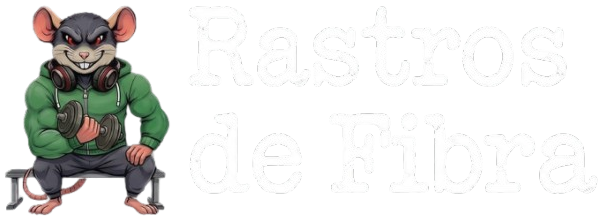
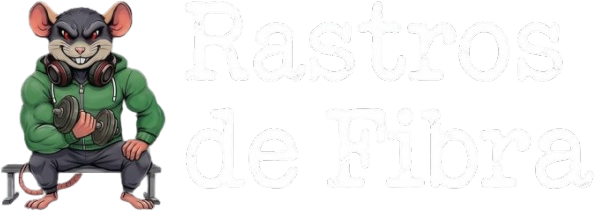
fix: alterações solicitadas pelos clientes

diff --git a/public/css/Navbar.css b/public/css/Navbar.css
@@ -1,5 +1,4 @@
 html {
-    font-size: calc(70% + 0.8 vmin);
     background: linear-gradient(180deg, #0A243D, #0C1A27,#0D0F11);
     display: block;
     width: 100%;
@@ -11,8 +10,8 @@ html {
     box-sizing: border-box;
     font-family: Montserrat;
 }
-
 body {
+    width: 100%;
     background-repeat: no-repeat;  
     display: flex;
     flex-direction: row;
@@ -30,6 +29,7 @@ header {
     align-items: center;
     font-size: 24px;
     font-weight: bold;
+    padding-right: 20px;
 }
 .navbar-links {
     list-style-type: none;
@@ -42,6 +42,7 @@ header {
 }
 .navbar-logo{
     padding: 10px;
+    padding-top: 20px;
     gap: 10px;
     align-items: center;
 }   
@@ -54,7 +55,16 @@ a{
     height: 43px;
     width: 35px;
 }
-
+.material-symbols-outlined {
+  font-variation-settings:
+  'FILL' 0,
+  'wght' 100,
+  'GRAD' 0,
+  'opsz' 48;
+  font-size: 48px;
+  transform: scale(2); 
+  display: none !important;
+}
 @media screen and (max-width:992px) {
     #navbar-menu{
         display: flex;
@@ -68,5 +78,8 @@ a{
     img{ 
         width: 124px;
         height: 45px;
+    }
+    .material-symbols-outlined{
+        display: flex !important;
     }
 }

diff --git a/app/views/site/Navbar.html b/app/views/site/Navbar.html
@@ -10,12 +10,14 @@
     <link rel="preconnect" href="https://fonts.gstatic.com" crossorigin>
     <link href="https://fonts.googleapis.com/css2?family=Bebas+Neue&family=Montserrat:ital,wght@0,100..900;1,100..900&family=Oswald:wght@200..700&display=swap" rel="stylesheet">
         <!--Icones-->
-    <link rel="stylesheet" href="https://cdn.jsdelivr.net/npm/bootstrap-icons@1.13.1/font/bootstrap-icons.min.css">
+    <link rel="stylesheet" href="https://fonts.googleapis.com/css2?family=Material+Symbols+Outlined:opsz,wght,FILL,GRAD@20..48,100..700,0..1,-50..200&icon_names=menu" />
 </head>
 <body>
     <header>
         <div class="navbar-logo"><img src="../../../public/assets/Rato-texto.png" alt="Logo Rastro de Fibra" width="177px" height="65px"></div>
-        <i class="bi bi-list" id="navbar-menu"></i>
+        <span class="material-symbols-outlined">
+            menu
+        </span>
         <ul class="navbar-links">
             <li><a href="/">Home</a></li>
             <li><a href="/">Posts</a></li>